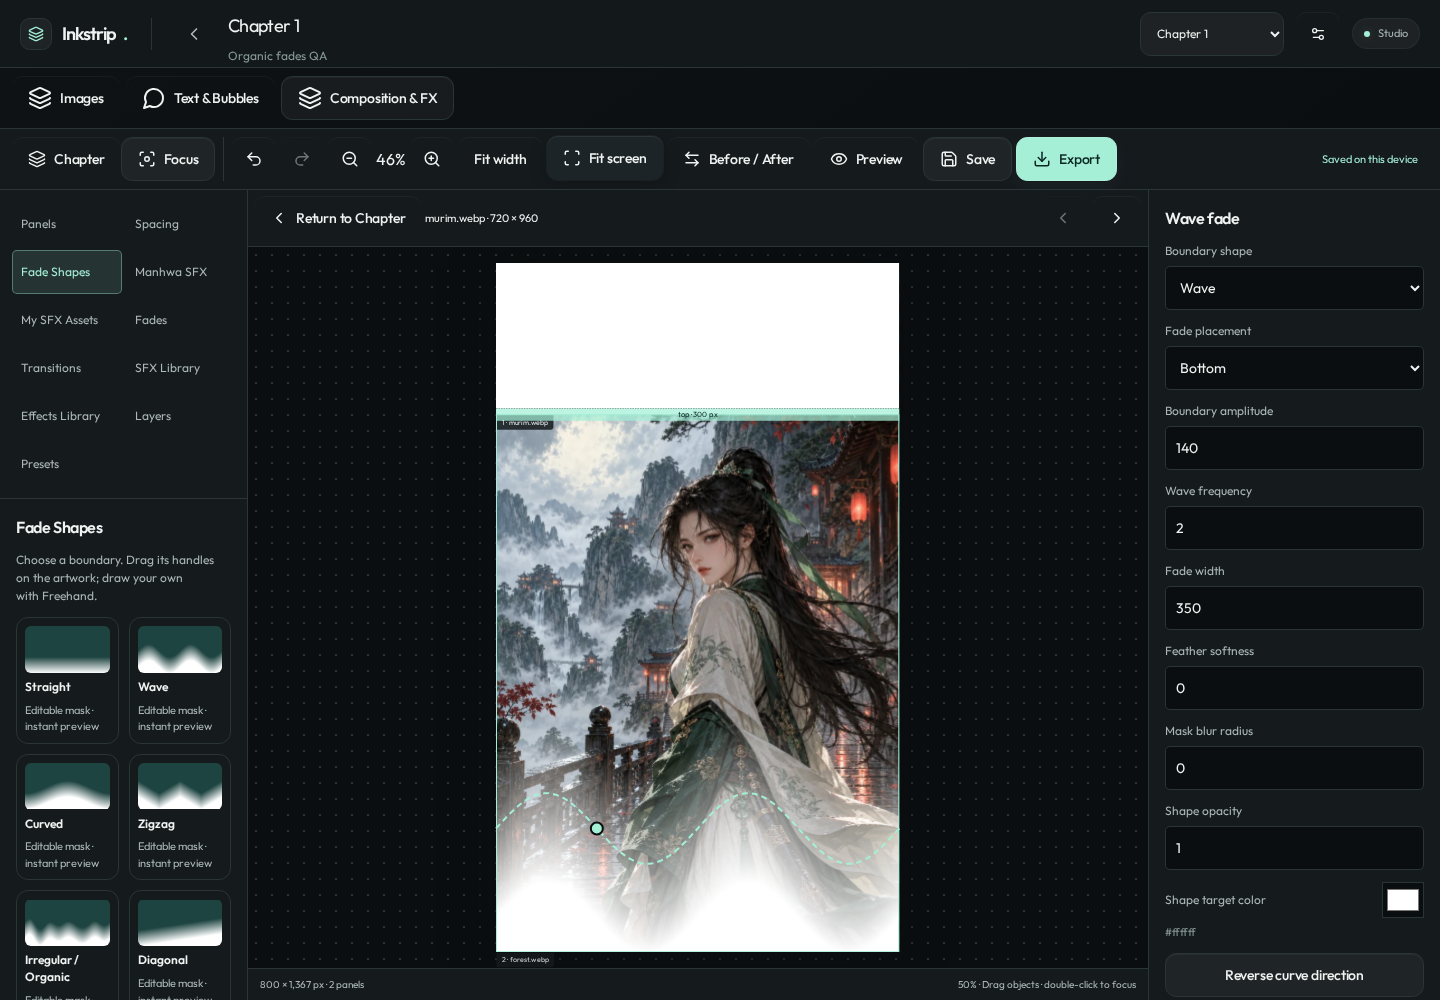
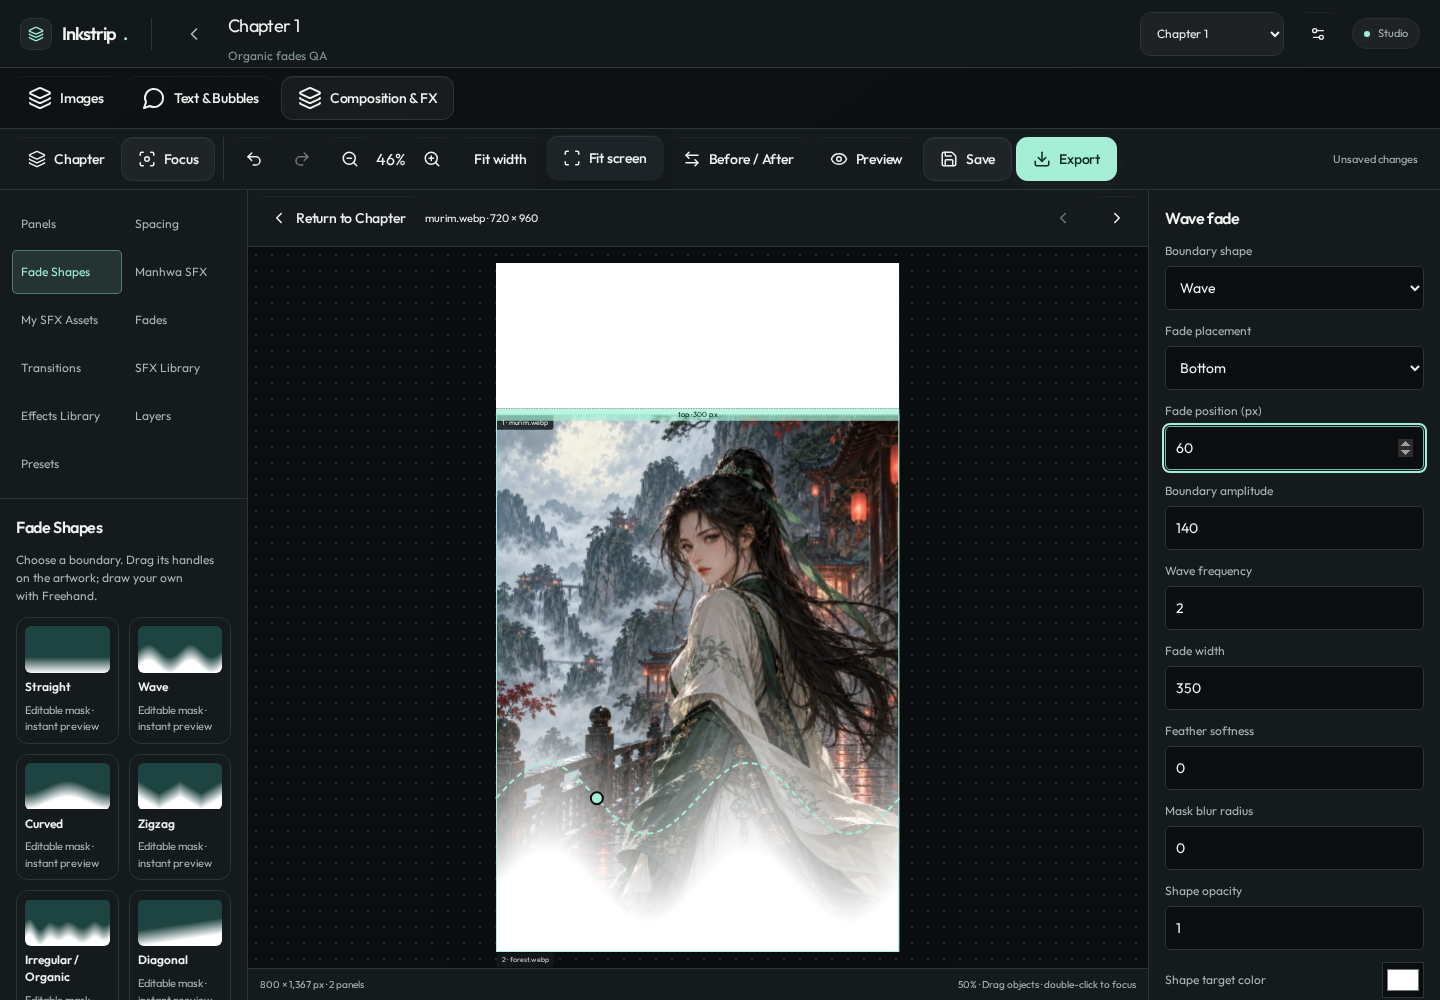
fix: expose fade position and stabilize rotated ink across export segments

diff --git a/src/lib/studio/composition/render.ts b/src/lib/studio/composition/render.ts
@@ -1,4 +1,4 @@
-import { paintInk, inkSupported } from "./ink";
+import { paintInk, inkSupported, inkPolygons } from "./ink";
 import { getImageBlob } from "../db";
 import { decodeBlob, deviceLimits } from "../images";
 import { objectMatrix, objectBounds } from "./geometry";
@@ -606,11 +606,135 @@ function objectPadding(o: CompositionObject, frames: PanelFrame[], objects: Comp
     scale = Math.max(Math.hypot(m[0], m[1]), Math.hypot(m[2], m[3]));
   return (
     (o.kind === "sfx"
-      ? Math.max(o.glow, o.shadow) * 3 + o.shadow + Math.max(0, ...o.strokes.map((s) => s.width))
+      ? Math.max(o.glow, o.shadow) * 3 +
+        o.shadow +
+        Math.max(0, ...o.strokes.map((s) => s.width)) * (o.ink ? 4 : 1)
       : o.kind === "fx"
         ? o.radius * 3
         : 0) * scale
   );
+}
+/** Rasterize ink against stable global bounds, independent of the requested
+ * chapter segment. Clipping a transformed polygon path to different viewport
+ * sizes changes browser stroke tessellation/AA at the crop. */
+function paintStableInk(
+  ctx: CanvasRenderingContext2D,
+  o: Sfx,
+  frames: PanelFrame[],
+  objects: CompositionObject[],
+  r: Region,
+  scale: number,
+  resources: RenderResources,
+  outputWidth: number,
+  maxArea: number,
+) {
+  const m = objectMatrix(o, frames, objects),
+    points = inkPolygons(o).flat();
+  if (!points.length) return;
+  let x0 = Infinity,
+    y0 = Infinity,
+    x1 = -Infinity,
+    y1 = -Infinity;
+  for (const p of points) {
+    const x = (m[0] * p.x + m[2] * p.y + m[4]) * scale,
+      y = (m[1] * p.x + m[3] * p.y + m[5]) * scale;
+    x0 = Math.min(x0, x);
+    x1 = Math.max(x1, x);
+    y0 = Math.min(y0, y);
+    y1 = Math.max(y1, y);
+  }
+  const pad = Math.ceil(objectPadding(o, frames, objects) * scale) + 2;
+  const bounds = {
+    left: Math.max(0, Math.floor(x0) - pad),
+    top: Math.floor(y0) - pad,
+    right: Math.min(outputWidth, Math.ceil(x1) + pad),
+    bottom: Math.ceil(y1) + pad,
+  };
+  if (bounds.right <= bounds.left) return;
+  const origin = Math.round(r.y * scale),
+    end = origin + ctx.canvas.height,
+    limits = deviceLimits(),
+    key = JSON.stringify([o, m, scale]);
+  const paint = (
+    left: number,
+    top: number,
+    width: number,
+    height: number,
+    core: { x: number; y: number; w: number; h: number },
+  ) => {
+    const id = `ink:${key}:${left}:${top}:${width}:${height}`;
+    let tile = resources.get(id);
+    if (!tile) {
+      if (width > limits.maxSide || height > limits.maxSide || width * height > maxArea)
+        throw Error(
+          "Lettering exceeds this device render budget. Reduce the output width or lettering size.",
+        );
+      tile = canvas(width, height);
+      const p = tile.getContext("2d")!;
+      p.setTransform(scale, 0, 0, scale, -left, -top);
+      p.transform(...m);
+      paintSfx(p, o);
+      if (o.texture) {
+        p.globalCompositeOperation = "source-atop";
+        p.strokeStyle = rgba("#000000", o.texture);
+        p.lineWidth = 1;
+        for (let i = 0; i < o.width / 7; i++) {
+          p.beginPath();
+          p.moveTo(i * 7, 0);
+          p.lineTo(i * 7 + o.height * 0.2, o.height);
+          p.stroke();
+        }
+      }
+      resources.put(id, tile);
+    }
+    ctx.save();
+    ctx.setTransform(1, 0, 0, 1, 0, 0);
+    ctx.drawImage(
+      tile,
+      core.x - left,
+      core.y - top,
+      core.w,
+      core.h,
+      core.x,
+      core.y - origin,
+      core.w,
+      core.h,
+    );
+    ctx.restore();
+    if (resources.get(id) !== tile) tile.width = tile.height = 0;
+  };
+  const width = bounds.right - bounds.left,
+    height = bounds.bottom - bounds.top;
+  if (width <= limits.maxSide && height <= limits.maxSide && width * height <= maxArea) {
+    paint(bounds.left, bounds.top, width, height, {
+      x: bounds.left,
+      y: bounds.top,
+      w: width,
+      h: height,
+    });
+    return;
+  }
+  // Large lettering stays bounded, with stable 128px cores and a glyph-sized halo.
+  const halo =
+      pad +
+      Math.ceil(o.size * scale * Math.max(Math.hypot(m[0], m[1]), Math.hypot(m[2], m[3])) * 1.5),
+    step = 128;
+  for (
+    let y = Math.floor(Math.max(bounds.top, origin) / step) * step;
+    y < Math.min(bounds.bottom, end);
+    y += step
+  )
+    for (let x = Math.floor(bounds.left / step) * step; x < bounds.right; x += step) {
+      const left = Math.max(0, x - halo),
+        right = Math.min(outputWidth, x + step + halo),
+        top = y - halo;
+      paint(left, top, right - left, step + 2 * halo, {
+        x,
+        y,
+        w: Math.min(step, outputWidth - x),
+        h: step,
+      });
+    }
 }
 async function paintObjects(
   ctx: CanvasRenderingContext2D,
@@ -623,6 +747,7 @@ async function paintObjects(
   parentId?: string,
   excluded?: Set<string>,
   rootId?: string,
+  inkArea = deviceLimits().maxArea / 6,
 ) {
   for (const o of d.objects.filter(
     (o) => o.parentId === parentId && (!rootId || o.id === rootId),
@@ -646,7 +771,19 @@ async function paintObjects(
         }
       }
       if (o.kind === "group")
-        await paintObjects(p, d, frames, r, scale, resources, signal, o.id, excluded);
+        await paintObjects(
+          p,
+          d,
+          frames,
+          r,
+          scale,
+          resources,
+          signal,
+          o.id,
+          excluded,
+          undefined,
+          inkArea,
+        );
       else {
         if (o.clip && o.owner) {
           const owner = frames.find((f) => f.panel.id === o.owner);
@@ -663,8 +800,11 @@ async function paintObjects(
             o.text || " ",
           );
           signal?.throwIfAborted();
-          paintSfx(p, o);
-          if (o.texture) {
+          const ink = o.ink && inkSupported(o.text);
+          if (ink)
+            paintStableInk(p, o, frames, d.objects, r, scale, resources, d.width * scale, inkArea);
+          else paintSfx(p, o);
+          if (o.texture && !ink) {
             p.globalCompositeOperation = "source-atop";
             p.strokeStyle = rgba("#000000", o.texture);
             p.lineWidth = 1;
@@ -904,6 +1044,7 @@ export async function renderRegion(
           undefined,
           options.excluded,
           key.slice(7),
+          limits.maxArea / planes,
         );
     }
     options.signal?.throwIfAborted();

diff --git a/src/components/studio/composition/shape-gallery.tsx b/src/components/studio/composition/shape-gallery.tsx
@@ -108,6 +108,13 @@ export function FadeShapeProperties({
         options={["Top", "Bottom", "Both"]}
         onChange={(placement) => set({ placement: placement as Boundary["placement"] })}
       />
+      <NumberField
+        label="Fade position (px)"
+        value={f.start}
+        min={0}
+        max={100000}
+        onChange={(start) => update({ start })}
+      />
       {b.shape !== "Straight" && (
         <NumberField
           label="Boundary amplitude"

diff --git a/docs/ORGANIC_FADES_MANHWA_SFX.md b/docs/ORGANIC_FADES_MANHWA_SFX.md
@@ -1,7 +1,7 @@
 # Organic fades and Manhwa SFX — implementation report
 
 Feature branch: `codex/organic-fades-manhwa-sfx`, based on the verified PR #33 merge
-`67926a6597dc8ad812373b8ae7ae1235701b0a40`. This change is not merged or deployed to production.
+`67926a6597dc8ad812373b8ae7ae1235701b0a40`. Release status is tracked in [PR #34](https://github.com/barbonselvar/inkstrip-manhwa-studio/pull/34); production is verified against its merge commit.
 
 ## Architecture and compatibility
 
@@ -88,7 +88,7 @@ engine rather than stock placeholder images.
   preset, source-crossing Hangul, SVG sanitization, transparent PNG, matte WebP,
   categorized asset reload, reader and PNG/JPEG/WebP decoding all passed.
 - Wave, Bezier and freehand exports with crossing vector SFX and imported artwork
-  were compared against whole reference renders. Each covered exactly 1217 rows;
+  were initially compared at width 400 against whole reference renders. Each covered exactly 1217 rows;
   maximum channel deviation was 1 and no values differed by more than 2.
 - Existing Composition browser suite passed its Chapter/Focus/spacing/fade/SFX/
   save/refresh/export/40-panel and gesture workflows. Existing integrity suite passed
@@ -150,3 +150,21 @@ Screenshots and machine-readable results are in [organic-composition](organic-co
 - [Cross-boundary Hangul and action gallery](organic-composition/screenshots/manhwa-sfx.png)
 - [Touch freehand editing at 390px](organic-composition/screenshots/mobile-390.png)
 - [Browser results and pixel parity](organic-composition/evidence/browser-results.json)
+
+## PR #34 release QA correction
+
+The quick shape inspector now exposes **Fade position (px)** alongside placement
+and intensity. This reuses the existing non-destructive `start` setting; no schema
+or renderer changes are needed. A browser regression checks immediate pixel changes
+and restoration of the position after refresh. Legacy advanced controls remain.
+
+A second release check compared UI-downloaded 640px PNG segments against a single
+PNG containing rotated Hangul and English lettering. Browser clipping changed
+polygon-stroke antialiasing: 82 pixels differed, with maximum channel deviation 62.
+Ink now renders into cached, stable global bounds, with a bounded global tile
+fallback for larger objects. Stroke halos include miter extent. Segment extraction
+copies those pixels instead of rerasterizing against each segment's clip. The
+isolated reproduction now covers 2107 rows with maximum deviation 1 and zero
+channel differences above 2. The automated shape/export regression now includes
+both rotated scripts at the fractional 640/800 output scale. No source image,
+project schema or stored layer coordinates are changed.

diff --git a/docs/CHANGELOG.md b/docs/CHANGELOG.md
@@ -1,11 +1,12 @@
 # Inkstrip release changelog
 
-## Organic fades & Manhwa SFX — feature branch
+## Organic fades & Manhwa SFX — PR #34
 
 - Visual galleries for nine editable fade boundaries and original Hangul/English vector sound effects.
 - Bezier/freehand canvas controls, touch drawing, categorized transparent SFX imports and reusable asset presets.
+- Release QA: quick fade position controls and stable rotated-ink rasterization across export segments.
 - Safe SVG-to-PNG conversion and corner-connected background removal preserve original artwork.
-- [Implementation, verification and limits](ORGANIC_FADES_MANHWA_SFX.md). Not merged or deployed.
+- [Implementation, verification and limits](ORGANIC_FADES_MANHWA_SFX.md).
 
 ## Composition & FX Studio — feature branch, unreleased
 
